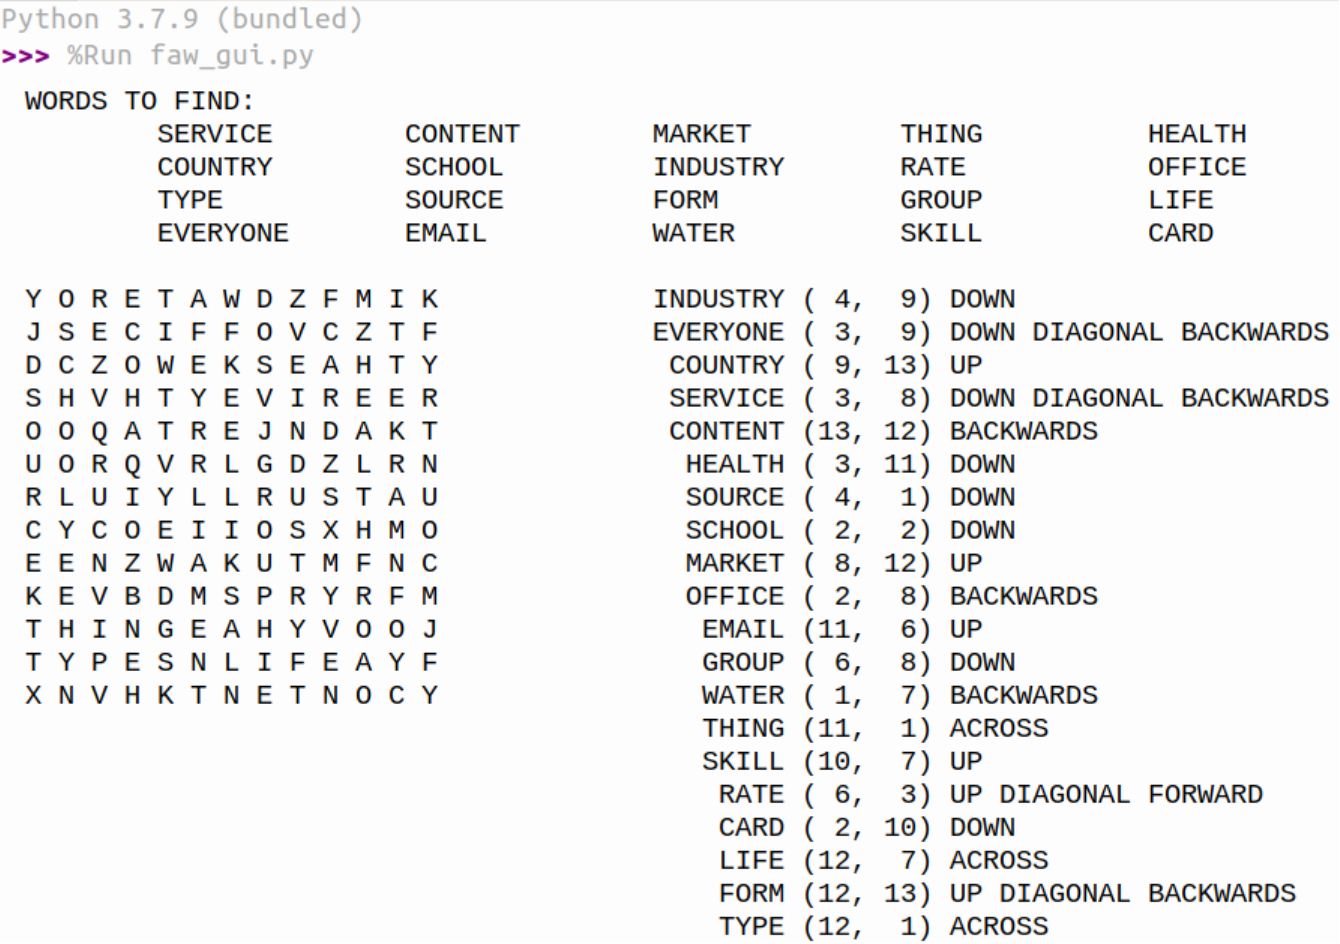
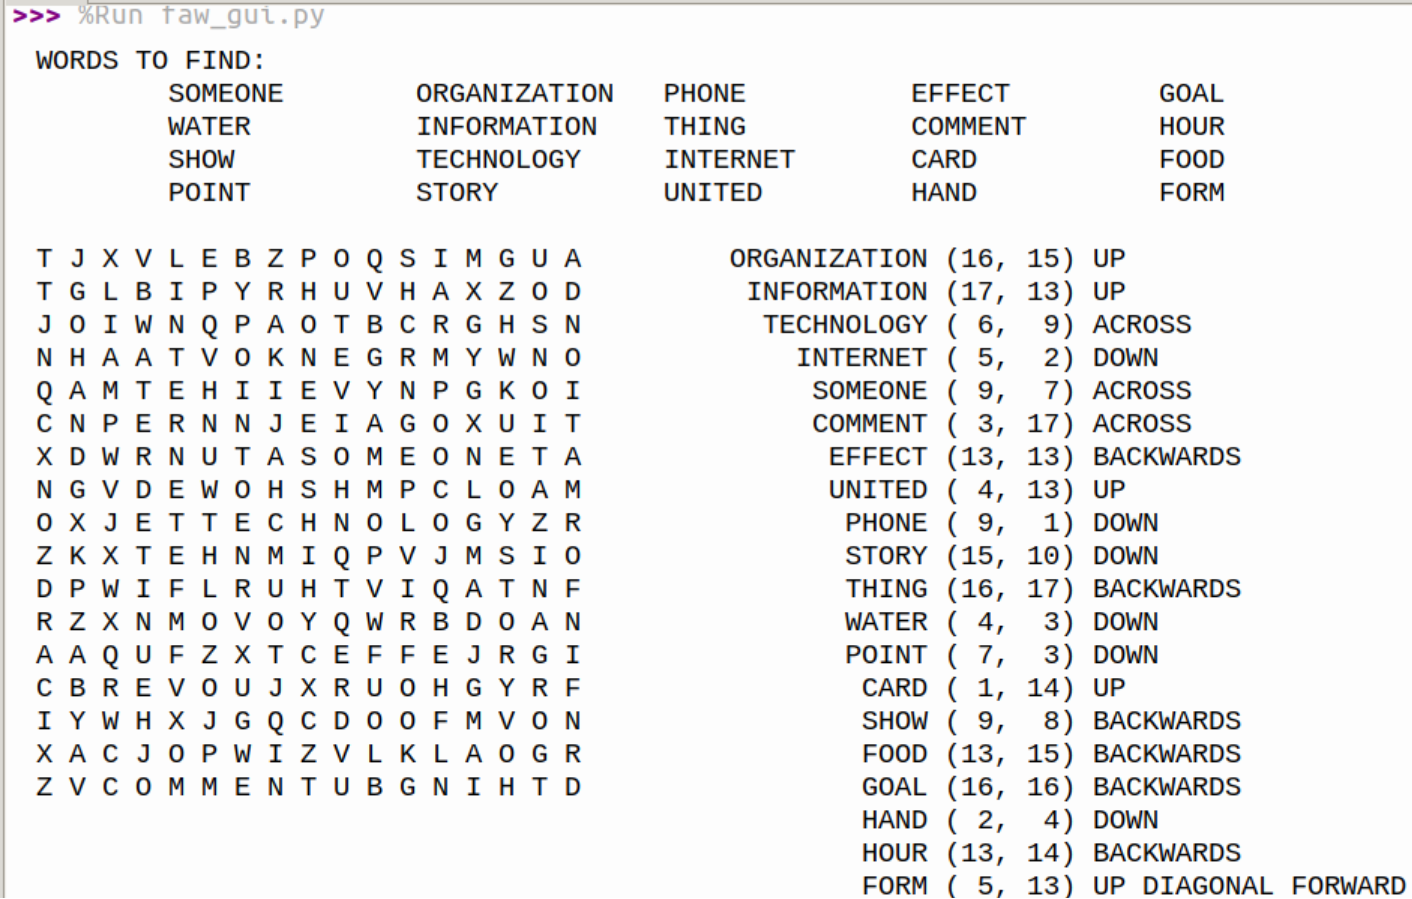
Noticed (x,y) was (row, column); fixed

Changed region(s): [[0.0, 0.0, 1.0, 1.0], [0.8261, 0.0934, 0.9485, 0.2803]]

diff --git a/faw_gui.py b/faw_gui.py
@@ -87,7 +87,7 @@ def format_solution(solution_list):
     elif (xinc, yinc) in [(-1, 1)]:
         direction = "DOWN DIAGONAL BACKWARDS"
         
-    return f"{w.upper():>15} ({x:2}, {y:2}) {direction}"
+    return f"{w.upper():>15} ({y:2}, {x:2}) {direction}"
 
     
 if __name__ == "__main__":
